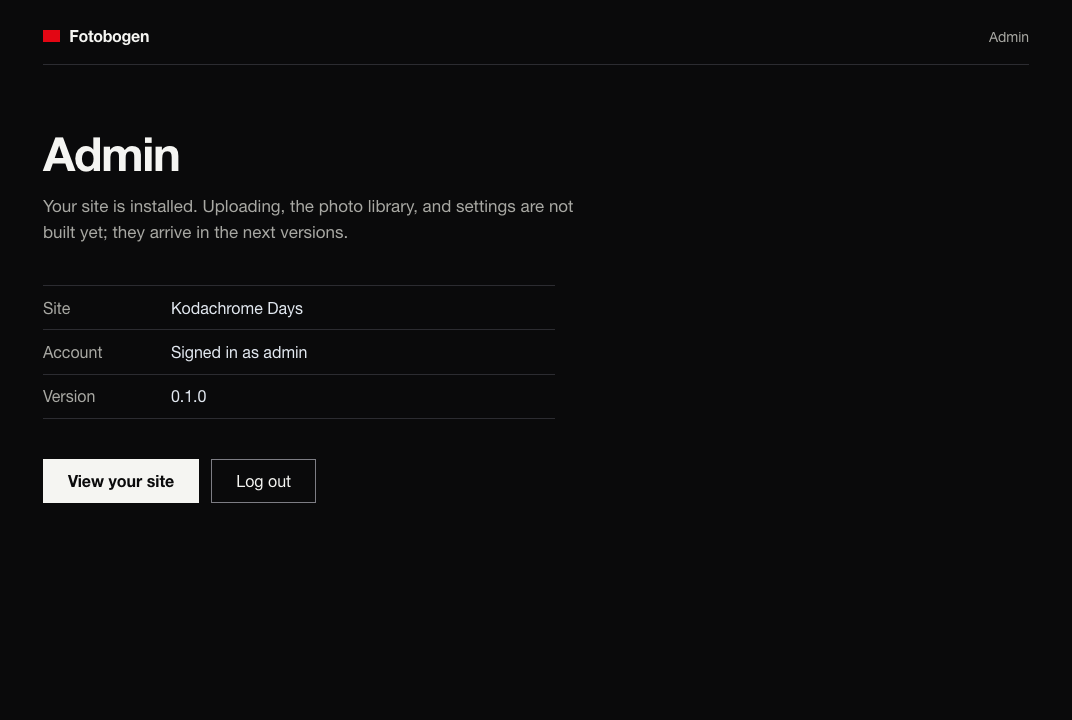
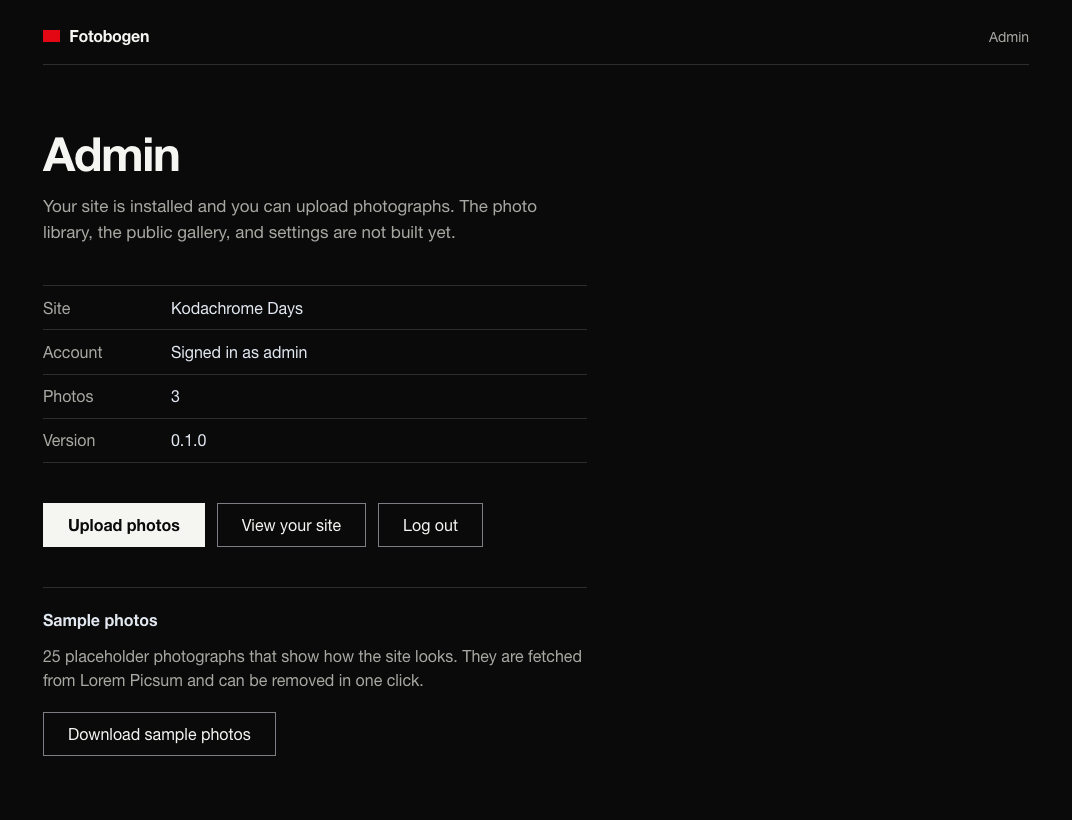
Windows: release source files promptly and retry busy moves; new screenshots in the README and the fotobogen.com guide

diff --git a/site/index.html b/site/index.html
@@ -163,7 +163,7 @@ footer .wrap{border-top:1px solid var(--rule);padding-top:20px;padding-bottom:28
 <main id="main">
   <div class="wrap">
     <section class="hero" aria-labelledby="name">
-      <p class="state"><strong>In development</strong><span>Installing and signing in work today. Uploading and the public gallery are being built. This page shows what it looks like so far.</span></p>
+      <p class="state"><strong>In development</strong><span>Installing, signing in, and uploading work today. The public gallery is being built. This page shows what it looks like so far.</span></p>
       <h1 id="name">Fotobogen</h1>
       <p class="tag">Publish your photographs on a website of your own.</p>
     </section>
@@ -202,8 +202,8 @@ footer .wrap{border-top:1px solid var(--rule);padding-top:20px;padding-bottom:28
     </section>
     <section class="part" aria-labelledby="tour-h">
       <div class="part-head">
-        <h2 id="tour-h">The first five minutes</h2>
-        <p>These are real screens from the current build. The installer is a web page: you open your new site in a browser and answer six short steps.</p>
+        <h2 id="tour-h">The first ten minutes</h2>
+        <p>These are real screens from the current build. The installer is a web page: you open your new site in a browser and answer six short steps. The upload thumbnails shown are generated gradients, not photographs.</p>
       </div>
       <ol class="tour">
         <li>
@@ -219,12 +219,16 @@ footer .wrap{border-top:1px solid var(--rule);padding-top:20px;padding-bottom:28
           <figure><img src="screens/setup-4-display.png" width="1072" height="1074" loading="lazy" decoding="async" alt="Setup page titled Choose how photos are shown, with diagrams for masonry or square grids and for opening a photo over the grid or on its own page."></figure>
         </li>
         <li>
-          <div class="cap"><span class="num" aria-hidden="true">04</span><h3>Done</h3><p>The last step lists what you chose and closes the installer for good. From here on the site belongs to your login.</p><p class="where">Setup, step 6 of 6</p></div>
-          <figure><img src="screens/setup-6-done.png" width="1072" height="720" loading="lazy" decoding="async" alt="Setup page titled Fotobogen is ready, listing the site name, admin, grid, photo view, and samples choices."></figure>
+          <div class="cap"><span class="num" aria-hidden="true">04</span><h3>Start empty, or with samples</h3><p>The installer can fetch 25 placeholder photographs so the site has something to show. A counter follows the download, which never holds you up and can be cancelled or skipped.</p><p class="where">Setup, step 6 of 6</p></div>
+          <figure><img src="screens/setup-6-downloading.png" width="1072" height="980" loading="lazy" decoding="async" alt="Setup page titled Fotobogen is ready, listing the choices made, with a counter reading 9 of 25 sample photos downloaded and a Cancel download button."></figure>
         </li>
         <li>
-          <div class="cap"><span class="num" aria-hidden="true">05</span><h3>Sign in to the dashboard</h3><p>The dashboard sits behind your login. Today it is a placeholder; uploading, the photo library, and settings arrive next.</p><p class="where">Dashboard</p></div>
-          <figure><img src="screens/admin.png" width="1072" height="720" loading="lazy" decoding="async" alt="Dashboard titled Admin, showing the site name, the signed-in account, and the version."></figure>
+          <div class="cap"><span class="num" aria-hidden="true">05</span><h3>Sign in to the dashboard</h3><p>The dashboard sits behind your login. From here you upload, and download or remove the sample photos whenever you like.</p><p class="where">Dashboard</p></div>
+          <figure><img src="screens/admin.png" width="1072" height="820" loading="lazy" decoding="async" alt="Dashboard titled Admin, showing the site name, the signed-in account, the number of photos, and buttons to upload photos and download sample photos."></figure>
+        </li>
+        <li>
+          <div class="cap"><span class="num" aria-hidden="true">06</span><h3>Upload</h3><p>Choose files or drop them on the page. Each photo is checked, stored untouched, and resized for every screen; anything that is not a photo, or is already in your library, is explained on its own row.</p><p class="where">Upload</p></div>
+          <figure><img src="screens/upload.png" width="1072" height="1045" loading="lazy" decoding="async" alt="Upload page listing five files: three ready with small thumbnails, one marked already in your library, and one marked not accepted with the reason."></figure>
         </li>
       </ol>
     </section>
@@ -254,16 +258,16 @@ footer .wrap{border-top:1px solid var(--rule);padding-top:20px;padding-bottom:28
     <section class="part" aria-labelledby="plan-h">
       <div class="part-head">
         <h2 id="plan-h">What is built, what is next</h2>
-        <p>Fotobogen is being built in the open, one stage at a time. A red frame is finished; the outlined frame is in progress.</p>
+        <p>Fotobogen is being built in the open, one stage at a time. A red frame is finished; the outlined frame is next.</p>
       </div>
       <ol class="plan">
         <li class="done"><span class="t"></span><b>Foundation</b><span class="s">Built</span><p>Runs from one folder, in Docker or on Node.</p></li>
         <li class="done"><span class="t"></span><b>Installer and login</b><span class="s">Built</span><p>The six steps above, and a guarded dashboard.</p></li>
-        <li class="now"><span class="t"></span><b>Uploading</b><span class="s">In progress</span><p>Photos resized for every screen, camera details read from the file.</p></li>
-        <li class="later"><span class="t"></span><b>Public gallery</b><span class="s">Next</span><p>The grid, the photo view, and the Swiss skin.</p></li>
+        <li class="done"><span class="t"></span><b>Uploading</b><span class="s">Built</span><p>Photos resized for every screen, camera details read from the file.</p></li>
+        <li class="done"><span class="t"></span><b>Sample photos</b><span class="s">Built</span><p>Twenty-five placeholders to start with, removable in one click.</p></li>
+        <li class="now"><span class="t"></span><b>Public gallery</b><span class="s">Next</span><p>The grid, the photo view, and the Swiss skin.</p></li>
         <li class="later"><span class="t"></span><b>Photo library</b><span class="s">Planned</span><p>Edit, reorder, hide, and delete from the dashboard.</p></li>
         <li class="later"><span class="t"></span><b>Modules</b><span class="s">Planned</span><p>Black-and-white and tone looks that never alter the original.</p></li>
-        <li class="later"><span class="t"></span><b>Sample photos</b><span class="s">Planned</span><p>Twenty-five placeholders to start with, removable in one click.</p></li>
         <li class="later"><span class="t"></span><b>First release</b><span class="s">Planned</span><p>An install guide a stranger can follow.</p></li>
       </ol>
       <p class="source">The source, the design document, and the change log are on <a href="https://github.com/cschweda/fotobogen">GitHub</a>.</p>

diff --git a/server/storage/local.ts b/server/storage/local.ts
@@ -18,6 +18,24 @@ function checked(key: string): string {
   return key
 }
 
+// Windows refuses to move or delete a file that another handle still has
+// open (a virus scanner, or a reader that has not quite let go). Try again
+// briefly before giving up.
+const RM = { force: true, maxRetries: 10, retryDelay: 50 }
+const BUSY = new Set(['EBUSY', 'EPERM', 'EACCES'])
+
+async function moveWithRetry(from: string, to: string): Promise<void> {
+  for (let attempt = 0; ; attempt++) {
+    try {
+      return await rename(from, to)
+    }
+    catch (error) {
+      if (attempt >= 10 || !BUSY.has((error as NodeJS.ErrnoException).code ?? '')) throw error
+      await new Promise(wait => setTimeout(wait, 50))
+    }
+  }
+}
+
 export function createLocalStorage(dirs: Record<StorageArea, string>): Storage {
   const localPath = (area: StorageArea, key: string) => join(dirs[area], checked(key))
 
@@ -28,13 +46,13 @@ export function createLocalStorage(dirs: Record<StorageArea, string>): Storage {
       const target = localPath(area, key)
       await mkdir(dirs[area], { recursive: true })
       try {
-        await rename(fromPath, target)
+        await moveWithRetry(fromPath, target)
       }
       catch (error) {
         // A different disk: copy, then remove the source.
         if ((error as NodeJS.ErrnoException).code !== 'EXDEV') throw error
         await copyFile(fromPath, target)
-        await rm(fromPath, { force: true })
+        await rm(fromPath, RM)
       }
     },
 
@@ -52,7 +70,7 @@ export function createLocalStorage(dirs: Record<StorageArea, string>): Storage {
     },
 
     async delete(area, key) {
-      await rm(localPath(area, key), { force: true })
+      await rm(localPath(area, key), RM)
     },
 
     publicUrl: key => `/media/${checked(key)}`,

diff --git a/tests/server/samples.test.ts b/tests/server/samples.test.ts
@@ -1,6 +1,6 @@
 import { readdirSync } from 'node:fs'
 import { join } from 'node:path'
-import { afterAll, beforeAll, describe, expect, it } from 'vitest'
+import { afterAll, beforeAll, describe, expect, it, vi } from 'vitest'
 import { whenProcessed } from '../helpers/photos.ts'
 import { startFakePicsum, type FakePicsum } from '../helpers/picsum.ts'
 import { get, post, startServer, type TestServer } from '../helpers/server.ts'
@@ -120,10 +120,11 @@ describe('sample photos', () => {
     expect(cancelled.status).toBe(200)
     picsum.slow = 0
     expect(await samples(server, cookie)).toMatchObject({ state: 'idle', inLibrary: 0, done: 0 })
-    await whenProcessed(server, cookie)
     expect(query(server, 'select count(*) as n from photos')).toEqual([{ n: 0 }])
     expect(readdirSync(join(server.dataDir, 'originals'))).toEqual([])
-    expect(readdirSync(join(server.dataDir, 'derivatives'))).toEqual([])
+    // A photo that was mid-resize when it was removed is cleaned up as soon
+    // as that resize ends.
+    await vi.waitFor(() => expect(readdirSync(join(server.dataDir, 'derivatives'))).toEqual([]), { timeout: 10_000 })
     expect((await send(server, cookie, 'POST')).status).toBe(202)
     expect(await whenFetched(server, cookie)).toMatchObject({ state: 'done', done: 25 })
     await whenProcessed(server, cookie)

diff --git a/server/pipeline/render.ts b/server/pipeline/render.ts
@@ -9,23 +9,17 @@ import { createHash } from 'node:crypto'
 import { readFile, rm } from 'node:fs/promises'
 import { join } from 'node:path'
 import exifr from 'exifr'
-import sharp from 'sharp'
 import { rgbaToThumbHash } from 'thumbhash'
 import { newId } from '../core/ids.ts'
 import type { PipelineContext } from './context.ts'
 import { exifColumns, exifForStorage } from './exif.ts'
+import sharp from './image.ts'
 import { planDerivatives, WORKING_EDGE, type PlannedDerivative } from './plan.ts'
 
 const WEBP_QUALITY: Record<PlannedDerivative['kind'], number> = { thumb: 78, square: 78, medium: 82, large: 82 }
 const THUMBHASH_EDGE = 100
 
 interface PhotoRow { id: string, original_path: string, width: number, height: number }
-
-/** Call once per process: one image at a time, and no cache, to hold memory flat. */
-export function configureImageLibrary(): void {
-  sharp.concurrency(1)
-  sharp.cache(false)
-}
 
 async function readExif(path: string): Promise<Record<string, unknown> | undefined> {
   try {
@@ -127,6 +121,6 @@ export async function processPhoto(ctx: PipelineContext, photoId: string, option
     throw error
   }
   finally {
-    for (const file of scratch) await rm(file, { force: true })
+    for (const file of scratch) await rm(file, { force: true, maxRetries: 10, retryDelay: 50 })
   }
 }

diff --git a/server/utils/app.ts b/server/utils/app.ts
@@ -11,7 +11,6 @@ import * as schema from '../db/schema.ts'
 import type { PipelineContext } from '../pipeline/context.ts'
 import { readLimits } from '../pipeline/limits.ts'
 import { createQueue, type Queue } from '../pipeline/queue.ts'
-import { configureImageLibrary } from '../pipeline/render.ts'
 import { createLocalStorage } from '../storage/local.ts'
 
 export type Db = BetterSQLite3Database<typeof schema>
@@ -53,7 +52,6 @@ async function boot(loadMigrations: () => Promise<Migration[]>): Promise<void> {
   // Uploads that were in flight when the server last stopped are gone.
   rmSync(paths.tmp, { recursive: true, force: true })
   mkdirSync(paths.tmp, { recursive: true })
-  configureImageLibrary()
   const pipeline: PipelineContext = {
     sqlite,
     storage: createLocalStorage({ originals: paths.originals, derivatives: paths.derivatives }),

diff --git a/server/pipeline/accept.ts b/server/pipeline/accept.ts
@@ -5,9 +5,9 @@ import { createHash } from 'node:crypto'
 import { createReadStream } from 'node:fs'
 import { open, rm } from 'node:fs/promises'
 import { basename, extname } from 'node:path'
-import sharp from 'sharp'
 import { newId } from '../core/ids.ts'
 import type { PipelineContext } from './context.ts'
+import sharp from './image.ts'
 import { slugify, uniqueSlug } from './slug.ts'
 
 export type ImageFormat = 'jpeg' | 'png' | 'webp' | 'tiff' | 'avif'
@@ -165,7 +165,7 @@ export async function acceptUpload(ctx: PipelineContext, input: UploadInput): Pr
     }
   }
   finally {
-    await rm(input.tmpPath, { force: true })
+    await rm(input.tmpPath, { force: true, maxRetries: 10, retryDelay: 50 })
     if (stored) await storage.delete('originals', stored)
   }
 }

diff --git a/app/pages/admin/upload.vue b/app/pages/admin/upload.vue
@@ -236,7 +236,7 @@ onBeforeUnmount(() => clearTimeout(poll))
 .item__name { overflow-wrap: anywhere; font-weight: 700; }
 .item__state { color: var(--fb-muted); font-size: 0.875rem; }
 .item--ready .item__state { color: var(--fb-text); }
-.item__size::before { content: "/ "; }
+.item__size::before { content: "/"; margin: 0 0.35em; color: var(--fb-edge); }
 .item__message { color: var(--fb-error); font-size: 0.875rem; }
 .item--duplicate .item__message { color: var(--fb-muted); }
 .item__bar { width: 100%; height: 0.25rem; appearance: none; border: 0; background: var(--fb-frame); }

diff --git a/server/pipeline/samples.ts b/server/pipeline/samples.ts
@@ -125,7 +125,7 @@ export async function fetchSamples(ctx: PipelineContext, entries: SampleEntry[],
       }
       catch { /* counted as failed below */ }
       finally {
-        await rm(tmpPath, { force: true })
+        await rm(tmpPath, { force: true, maxRetries: 10, retryDelay: 50 })
       }
       if (added) {
         result.added++

diff --git a/server/pipeline/image.ts b/server/pipeline/image.ts
@@ -1,0 +1,9 @@
+// The image library, configured once for a small server: one image at a
+// time, and no cache. The cache would also keep source files open, which on
+// Windows stops them being moved or deleted.
+import sharp from 'sharp'
+
+sharp.concurrency(1)
+sharp.cache(false)
+
+export default sharp

diff --git a/README.md b/README.md
@@ -55,16 +55,30 @@ Grid layout and photo view are picked from diagrams and can be changed later:
 
 ![Setup wizard, step 4 of 6: choose masonry or square grid, modal or page photo view](docs/screenshots/setup-4-display.png)
 
-The last step lists what was chosen and closes the wizard for good:
+Step 5 offers to start empty (the default) or download 25 sample photos:
 
-![Setup wizard, step 6 of 6: Fotobogen is ready](docs/screenshots/setup-6-done.png)
+![Setup wizard, step 5 of 6: start empty or download 25 sample photos](docs/screenshots/setup-5-samples.png)
 
-After setup, the admin area sits behind a login. The dashboard is a
-placeholder until uploading and the photo library are built:
+The last step lists what was chosen and closes the wizard for good. If
+samples were asked for, a counter shows them arriving, and the download can
+be cancelled:
+
+![Setup wizard, step 6 of 6: Fotobogen is ready, with 9 of 25 sample photos downloaded](docs/screenshots/setup-6-downloading.png)
+
+After setup, the admin area sits behind a login:
 
 ![Log in page](docs/screenshots/login.png)
 
-![Placeholder admin dashboard showing site name, account, and version](docs/screenshots/admin.png)
+The dashboard leads to uploading and can download or remove the sample
+photos at any time:
+
+![Admin dashboard showing site name, account, photo count, version, and a Download sample photos button](docs/screenshots/admin.png)
+
+Each upload shows its progress and result; a duplicate or a file that is not
+a photo is explained on its own row. (The pictures here are generated
+gradients, not photographs.)
+
+![Upload page listing five files: three ready with thumbnails, one duplicate, one not accepted](docs/screenshots/upload.png)
 
 ## How it runs
 
